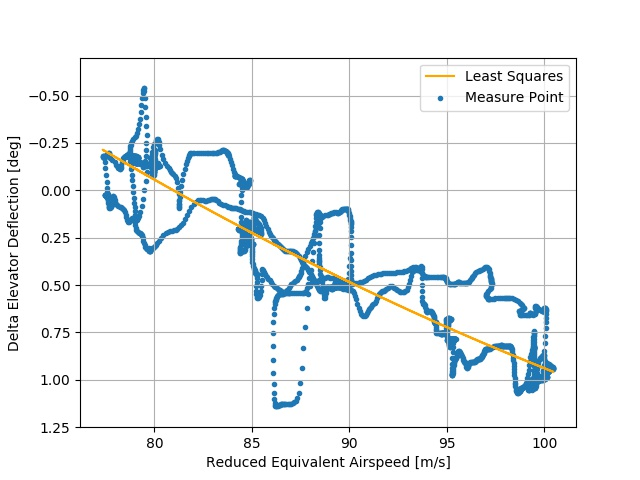
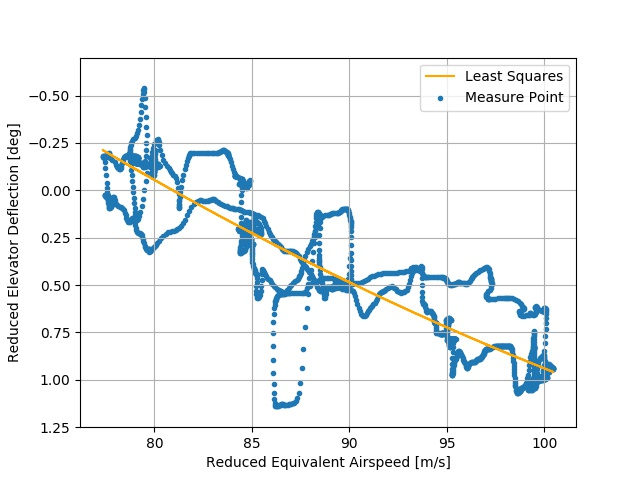
Plots voor Validation nogmaals, nu echt echt goed!!

diff --git a/CLCDcurve_RefData.py b/CLCDcurve_RefData.py
@@ -108,99 +108,113 @@ deleq = eledefl - (1/Cmdelta *Cmtc * (Tcs - Tc))
 deda, q = np.polyfit(aoa,deleq,1)
 line = deda*aoa+q
 print('deda =', deda)
-# plt.grid()
-# plt.scatter(aoa,deleq)
-# plt.plot(aoa,line, c='red')
-# plt.ylim(2,-2)
-# plt.ylabel('-delta_e')
-# plt.xlabel('aoa')
+plt.subplots_adjust(wspace=0.4)
+plt.subplot(131)
+plt.grid()
+plt.scatter(aoa,deleq)
+plt.plot(aoa,line, c='orange')
+plt.ylim(0.5,-1.75)
+plt.ylabel('Reduced Elevator Deflection [deg]')
+plt.xlabel('Angle of Attack [deg]')
 # plt.show()
 
 Cmalpha = -deda * Cmdelta
 print('Cmalpha =', Cmalpha)
 
 #-------------------Plotting Ele defl against Ve----##
-# plt.grid()
-# plt.scatter(Ve_e,deleq)
-# plt.ylim(1.5,-1)
-# plt.ylabel('-delta_e')
-# plt.xlabel('Ve_e')
+Ve_e_dde1 = np.column_stack([Ve_e,deleq])
+Ve_e_dde = Ve_e_dde1[Ve_e_dde1[:,0].argsort()]
+d, f, j = np.polyfit(Ve_e_dde[:,0],Ve_e_dde[:,1],2)
+line_eleV = d*Ve_e_dde[:,0]**2 + f*Ve_e_dde[:,0] + j
+plt.subplot(132)
+plt.grid()
+plt.scatter(Ve_e_dde[:,0],Ve_e_dde[:,1])
+plt.plot(Ve_e_dde[:,0],line_eleV, c='orange')
+plt.ylim(0.5,-1.75)
+plt.ylabel('Reduced Elevator Deflection [deg]')
+plt.xlabel('Reduced Equivalent Airspeed [m/s]')
 # plt.show()
 
 ##------------Reduced Elevator control Curve----------##
 Femea = np.array([i.Fe for i in EleTrimCurve])
 Fe = Femea * (Ws/Wele)
+Ve_e_Fe1 = np.column_stack([Ve_e,Fe])
+Ve_e_Fe = Ve_e_Fe1[Ve_e_Fe1[:,0].argsort()]
+d, f, j = np.polyfit(Ve_e_Fe[:,0],Ve_e_Fe[:,1],2)
+line_feele = d*Ve_e_Fe[:,0]**2 + f*Ve_e_Fe[:,0] + j
+plt.subplot(133)
+plt.grid()
+plt.scatter(Ve_e_Fe[:,0],Ve_e_Fe[:,1])
+plt.plot(Ve_e_Fe[:,0],line_feele, c='orange')
+plt.ylim(40,-60)
+plt.ylabel('Reduced Force on Elevator Control Wheel [N]')
+plt.xlabel('Reduced Equivalent Airspeed [m/s]')
+plt.show()
+
+# ##_______________________________________Flight test DATA_______________________________________##
+#
+# ##---------------------Cmdelta determination of matlab data-----------------------------------##
+# time_cg = time[33510:35911]
+# xcg_cg = np.array(xcg[33510:35911])
+# dxcg_cg1 = np.array([xcg_cg[i] - xcg_cg[i-1] for i in range(1,len(xcg_cg))])
+# dxcg_cg = min(dxcg_cg1)
+# de_cg = np.array(de[33510:35911])
+# dde_cg = (de_cg[2000] - de_cg[399]) * pi/180    #determined by exact time of interval stationary data
+# FUtot_cg = FUtot[33510:35911]
+# index = np.where(dxcg_cg1 == np.amin(dxcg_cg1))
+# W_cg = (masstot - FUtot_cg[2000])*g
+# h_cg = alt2[35512]
+# rho_cg = rho0 * pow((1 + (Tempgrad*h_cg)/Temp0),(-g/(R*Tempgrad) - 1))
+# Vtas_cg = TAS2[35512]
+# CN_cg = W_cg/(0.5*rho_cg*Vtas_cg**2*S)
+# Cmdelta_mat = -(1/dde_cg) * CN_cg * (dxcg_cg/c)
+# print('Cmdelta matlab =', Cmdelta_mat)
+#
+# ##-------------------------------Elevator Trim Curve Of Matlab Data------------------##
+# time_ele = time[29910:33511]
+# AOA_ele = np.array(AOA1[29910:33511])
+# de_ele = np.array(de[29910:33511])
+# Vtas_ele = np.array(TAS2[29910:33511])
+# h_ele = np.array(alt2[29910:33511])
+# rho_ele = rho0 * pow((1 + (Tempgrad*h_ele)/Temp0),(-g/(R*Tempgrad) - 1))
+# Ve_ele = Vtas_ele * np.sqrt(rho_ele/rho0)
+# FUtot_ele = np.array(FUtot[29910:33511])
+# W_ele = np.array([(masstot-FUtot_ele[i])*g for i in range(len(FUtot_ele))])
+# Ve_graph = Ve_ele * np.sqrt(Ws/W_ele)
+# # print(len(Ve_graph))
+# Tc = totalthrustele_mat/(0.5*rho_ele*Ve_graph**2*S)
+# Tcs = 1/(0.5*rho_ele*Ve_graph**2*d_eng**2)    ###vind echte waarde voor thrust met die exe
+# de_elemat = de_ele - (1/Cmdelta_mat * Cmtc) * (Tcs - Tc)
+# # print(len(de_elemat))
+#
 # plt.grid()
-# plt.scatter(Ve_e,Fe)
-# plt.ylim(70,-40)
+# plt.scatter(Ve_graph[:,0],de_elemat[:,0], marker='.')
+# plt.ylim(2,-1)
+# plt.ylabel('- Deflection Elevator [deg]')
+# plt.xlabel('Ve_ele^*')
+# plt.show()
+#
+# deda_mat, b_mat = np.polyfit(AOA_ele[:,0], de_elemat[:,0],1)
+# plt.grid()
+# plt.scatter(AOA_ele[:,0],de_elemat[:,0],marker='.')
+# plt.ylim(2,-1)
+# plt.ylabel('-delta_e')
+# plt.xlabel('AOA')
+# plt.show()
+#
+# Cmalpha_mat = -deda_mat * Cmdelta_mat
+# print('Cmalpha matlab =', Cmalpha_mat)
+#
+# Femea_mat = np.array(Fele[29910:33511])
+# Fele_mat = Femea_mat * Ws/W_ele
+# plt.grid()
+# plt.scatter(Ve_graph[:,0],Fele_mat[:,0], marker='.')
+# plt.ylim(70,-50)
 # plt.ylabel('-Fe')
 # plt.xlabel('Ve_e')
 # plt.show()
-
-##_______________________________________Flight test DATA_______________________________________##
-
-##---------------------Cmdelta determination of matlab data-----------------------------------##
-time_cg = time[33510:35911]
-xcg_cg = np.array(xcg[33510:35911])
-dxcg_cg1 = np.array([xcg_cg[i] - xcg_cg[i-1] for i in range(1,len(xcg_cg))])
-dxcg_cg = min(dxcg_cg1)
-de_cg = np.array(de[33510:35911])
-dde_cg = (de_cg[2000] - de_cg[399]) * pi/180    #determined by exact time of interval stationary data
-FUtot_cg = FUtot[33510:35911]
-index = np.where(dxcg_cg1 == np.amin(dxcg_cg1))
-W_cg = (masstot - FUtot_cg[2000])*g
-h_cg = alt2[35512]
-rho_cg = rho0 * pow((1 + (Tempgrad*h_cg)/Temp0),(-g/(R*Tempgrad) - 1))
-Vtas_cg = TAS2[35512]
-CN_cg = W_cg/(0.5*rho_cg*Vtas_cg**2*S)
-Cmdelta_mat = -(1/dde_cg) * CN_cg * (dxcg_cg/c)
-print('Cmdelta matlab =', Cmdelta_mat)
-
-##-------------------------------Elevator Trim Curve Of Matlab Data------------------##
-time_ele = time[29910:33511]
-AOA_ele = np.array(AOA1[29910:33511])
-de_ele = np.array(de[29910:33511])
-Vtas_ele = np.array(TAS2[29910:33511])
-h_ele = np.array(alt2[29910:33511])
-rho_ele = rho0 * pow((1 + (Tempgrad*h_ele)/Temp0),(-g/(R*Tempgrad) - 1))
-Ve_ele = Vtas_ele * np.sqrt(rho_ele/rho0)
-FUtot_ele = np.array(FUtot[29910:33511])
-W_ele = np.array([(masstot-FUtot_ele[i])*g for i in range(len(FUtot_ele))])
-Ve_graph = Ve_ele * np.sqrt(Ws/W_ele)
-# print(len(Ve_graph))
-Tc = totalthrustele_mat/(0.5*rho_ele*Ve_graph**2*S)
-Tcs = 1/(0.5*rho_ele*Ve_graph**2*d_eng**2)    ###vind echte waarde voor thrust met die exe
-de_elemat = de_ele - (1/Cmdelta_mat * Cmtc) * (Tcs - Tc)
-# print(len(de_elemat))
-
-plt.grid()
-plt.scatter(Ve_graph[:,0],de_elemat[:,0], marker='.')
-plt.ylim(2,-1)
-plt.ylabel('- Deflection Elevator [deg]')
-plt.xlabel('Ve_ele^*')
-plt.show()
-
-deda_mat, b_mat = np.polyfit(AOA_ele[:,0], de_elemat[:,0],1)
-plt.grid()
-plt.scatter(AOA_ele[:,0],de_elemat[:,0],marker='.')
-plt.ylim(2,-1)
-plt.ylabel('-delta_e')
-plt.xlabel('AOA')
-plt.show()
-
-Cmalpha_mat = -deda_mat * Cmdelta_mat
-print('Cmalpha matlab =', Cmalpha_mat)
-
-Femea_mat = np.array(Fele[29910:33511])
-Fele_mat = Femea_mat * Ws/W_ele
-plt.grid()
-plt.scatter(Ve_graph[:,0],Fele_mat[:,0], marker='.')
-plt.ylim(70,-50)
-plt.ylabel('-Fe')
-plt.xlabel('Ve_e')
-plt.show()
-
-####-------------------------Comments----------------------------------#####
-# dxcg = np.array([[xcg[i] - xcg[i-1]] for i in range(1,len(xcg))])
-# xcgd = min(dxcg)
-# dde_cg1 = np.array([de_cg[i] - de_cg[i-1] for i in range(1,len(de_cg))])
+#
+# ####-------------------------Comments----------------------------------#####
+# # dxcg = np.array([[xcg[i] - xcg[i-1]] for i in range(1,len(xcg))])
+# # xcgd = min(dxcg)
+# # dde_cg1 = np.array([de_cg[i] - de_cg[i-1] for i in range(1,len(de_cg))])

diff --git a/CLCDcurve.py b/CLCDcurve.py
@@ -32,17 +32,18 @@ AOA_CL = np.array(AOA1[16710:23911])
 VTAS_CL = np.array(TAS2[16710:23911])
 h_CL = np.array(alt2[16710:23911])
 FU_CL = np.array(FUtot[16710:23911])
+Mach_CL = np.array(Mach[16710:23911])
 rho1_CL = rho0 * pow((1 + (Tempgrad*h_CL)/Temp0),(-g/(R*Tempgrad) - 1))
 masstot = mass + passmass + fuelblock
 Weight_CL = [(masstot - FU_CL[i])*g for i in range(len(FU_CL))]
 CLgraph_mat = Weight_CL/(0.5 * VTAS_CL**2 * rho1_CL * S)
-
+print(min(Mach_CL), max(Mach_CL))
 #find linear relation for CL measurements
 clalpha_mat,ma_mat  = np.polyfit(AOA_CL[:,0],CLgraph_mat[:,0],1)
 CLline_CL = clalpha_mat*AOA_CL[:,0] + ma_mat
 print('Cl_alpha =', clalpha_mat, clalpha_mat*(180/pi))
 ##Calculate CD##
-CDgraph_mat = CD0 + (CLline_CL) ** 2 / (pi * A * e)
+CDgraph_mat = CD0 + (CLgraph_mat) ** 2 / (pi * A * e)
 
 #From Numerical Model#
 AOAstat = np.array(AOAlist)
@@ -51,7 +52,8 @@ CDstat = CD0 + linecl_stat/(pi * A * e)
 
 #Plots CL and CD##
 # plt.grid()
-# plt.plot(AOAstat,linecl_stat, label='Stationary Flight Measurements')
+# plt.scatter(AOA_CL,CLgraph_mat,marker= '.', label='Measure point')
+# # plt.plot(AOAstat,linecl_stat, label='Stationary Flight Measurements')
 # plt.plot(AOA_CL[:,0],CLline_CL,c='darkorange', label= 'Least Squares of Flightdata')
 # plt.ylabel('Lift Coefficient [-]')
 # plt.xlabel('Angle of Attack [deg]')
@@ -59,14 +61,14 @@ CDstat = CD0 + linecl_stat/(pi * A * e)
 # # plt.savefig('CLalphacompare.jpg')
 # plt.show()
 #
-# plt.grid()
-# plt.scatter(CDgraph_mat,CLline_CL, marker='.', label='Measure Point Flightdata')
+plt.grid()
+plt.scatter(CDgraph_mat,CLgraph_mat, marker='.', label='Measure Point Flightdata')
 # plt.plot(CDstat,CLlist,c='orange', label='Stationary Flight Measurements')
-# plt.ylabel('Lift Coefficient [-]')
-# plt.xlabel('Drag Coefficient [-]')
-# plt.legend()
-# plt.savefig('CLCDcompare.jpg')
-# plt.show()
+plt.ylabel('Lift Coefficient [-]')
+plt.xlabel('Drag Coefficient [-]')
+plt.legend()
+plt.savefig('CLCDcompare.jpg')
+plt.show()
 
 ##------------Reynolds Number Range-----------##
 # b = 1.458*10**(-6)  #kg/msK^1/2
@@ -116,20 +118,21 @@ Tc = totalthrustele/(0.5*rho0*Ve_e**2*S)
 print(Tc)
 Tcs = totalthrustelestand/(0.5*rho0*Ve_e**2*d_eng**2)
 print(Tcs)
+Cmdelta_veri = -0.41532
 deleq = eledefl - (1/Cmdelta *Cmtc * (Tcs - Tc))
 ##-------Plotting AoA against Ele delfection and determine Cmalpha------##
 deda, q = np.polyfit(aoa,deleq,1)
 line = deda*aoa+q
 print('deda =', deda)
-# plt.grid()
-# plt.scatter(aoa,deleq, label='Measure Point')
-# plt.plot(aoa,line, c='orange', label='Least Squares')
-# plt.ylim(1.2,-0.5)
-# plt.ylabel('Reduced Elevator Deflection [deg]')
-# plt.xlabel('Angle of Attack [deg]')
-# plt.legend()
-# plt.savefig('DedAOA.jpg')
-# plt.show()
+plt.grid()
+plt.scatter(aoa,deleq, label='Measure Point')
+plt.plot(aoa,line, c='orange', label='Least Squares')
+plt.ylim(1.2,-0.5)
+plt.ylabel('Reduced Elevator Deflection [deg]')
+plt.xlabel('Angle of Attack [deg]')
+plt.legend()
+plt.savefig('DedAOA_verification.jpg')
+plt.show()
 
 Cmalpha = -deda * Cmdelta
 print('Cmalpha =', Cmalpha)
@@ -202,17 +205,17 @@ Tcs = totalthrustele_matstand/(0.5*rho0*Ve_graph**2*d_eng**2)
 de_elemat = de_ele - (1/Cmdelta_mat * Cmtc) * (Tcs - Tc)
 # print(len(de_elemat))
 
-# f , k, v = np.polyfit(Ve_graph[:,0],de_elemat[:,0],2)
+f , k, v = np.polyfit(Ve_graph[:,0],de_elemat[:,0],2)
 # plt.grid()
 # plt.scatter(Ve_graph[:,0],de_elemat[:,0], marker='.', label='Measure Point')
 # plt.plot(Ve_graph[:,0], f*Ve_graph[:,0]**2 + k *Ve_graph[:,0] + v, c='orange', label='Least Squares')
-# plt.plot(Ve_graph[:,0], f*Ve_graph[:,0]**2 + k *Ve_graph[:,0] + v, c='orange', label='Least Squares of Flightdata')
-# plt.plot(Ve_e_dde[:,0],line_eleV, label='Stationary Flight Measurements')
+# # plt.plot(Ve_graph[:,0], f*Ve_graph[:,0]**2 + k *Ve_graph[:,0] + v, c='orange', label='Least Squares of Flightdata')
+# # plt.plot(Ve_e_dde[:,0],line_eleV, label='Stationary Flight Measurements')
 # plt.ylim(1.25,-0.7)
 # plt.ylabel('Reduced Elevator Deflection [deg]')
 # plt.xlabel('Reduced Equivalent Airspeed [m/s]')
 # plt.legend()
-# plt.savefig('DedVcompare.jpg')
+# plt.savefig('DedV_mat.jpg')
 # plt.show()
 
 deda_mat, b_mat = np.polyfit(AOA_ele[:,0], de_elemat[:,0],1)
@@ -225,7 +228,7 @@ deda_mat, b_mat = np.polyfit(AOA_ele[:,0], de_elemat[:,0],1)
 # plt.ylabel('Reduced Elevator Deflection [deg]')
 # plt.xlabel('Angle of Attack [deg]')
 # plt.legend()
-# plt.savefig('DedAOAcompare.jpg')
+# plt.savefig('DedAOA_compare.jpg')
 # plt.show()
 
 Cmalpha_mat = -deda_mat * Cmdelta_mat
@@ -233,17 +236,17 @@ print('Cmalpha matlab =', Cmalpha_mat)
 
 Femea_mat = np.array(Fele[29910:33511])
 Fele_mat = Femea_mat * Ws/W_ele
-# w , s, v = np.polyfit(Ve_graph[:,0],Fele_mat[:,0],2)
+w , s, v = np.polyfit(Ve_graph[:,0],Fele_mat[:,0],2)
 # plt.grid()
-# # plt.scatter(Ve_graph[:,0],Fele_mat[:,0], marker='.', label='Measure Point')
-# # plt.plot(Ve_graph[:,0],w*Ve_graph[:,0]**2 + s * Ve_graph[:,0] + v, c='orange', label='Least Squares')
-# plt.plot(Ve_graph[:,0],w*Ve_graph[:,0]**2 + s * Ve_graph[:,0] + v, c='orange', label='Least Squares of Flightdata')
-# plt.plot(Ve_e_Fe[:,0],line_feele, label='Stationary Flight Measurements')
+# plt.scatter(Ve_graph[:,0],Fele_mat[:,0], marker='.', label='Measure Point')
+# plt.plot(Ve_graph[:,0],w*Ve_graph[:,0]**2 + s * Ve_graph[:,0] + v, c='orange', label='Least Squares')
+# # plt.plot(Ve_graph[:,0],w*Ve_graph[:,0]**2 + s * Ve_graph[:,0] + v, c='orange', label='Least Squares of Flightdata')
+# # plt.plot(Ve_e_Fe[:,0],line_feele, label='Stationary Flight Measurements')
 # plt.ylim(70,-50)
 # plt.ylabel('Reduced Force on Elevator Control Wheel [N]')
 # plt.xlabel('Reduced Equivalent Airspeed [m/s]')
 # plt.legend()
-# plt.savefig('FeVcompare.jpg')
+# plt.savefig('FeV_mat.jpg')
 # plt.show()
 
 ####-------------------------Old versions----------------------------------#####
